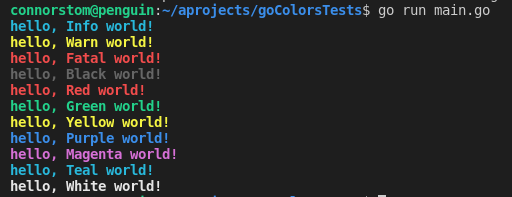
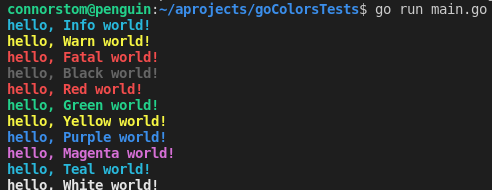
changed screenshot

Changed region(s): [[0.0, 0.1842, 0.3659, 1.0], [0.0, 0.0, 1.0, 0.1842], [0.7317, 0.9737, 0.7622, 1.0]]

diff --git a/README.md b/README.md
@@ -1,13 +1,16 @@
-#Examples of using color in Go
+
+ <h2 align="center">Examples of using color in Go</h2>
+
 
 <p align="center">
- <img width="100px" src="https://res.cloudinary.com/anuraghazra/image/upload/v1594908242/logo_ccswme.svg" align="center" alt="GitHub Readme Stats" />
- <h2 align="center">GitHub Readme Stats</h2>
- <p align="center">Get dynamically generated GitHub stats on your readmes!</p>
-</p>
-
- <img width="100px" src="screenshot.png" 
+ <img width="600px" src="https://github.com/coding-to-music/goColorsTests/blob/main/screenshot.png?raw=true" align="center" alt="GitHub Readme Stats" />
  
+ 
+ <h2 align="center">GitHub Readme Stats</h2>
+
+
+ 
+ Source of the code:
  https://gist.github.com/ik5/d8ecde700972d4378d87
 
 
